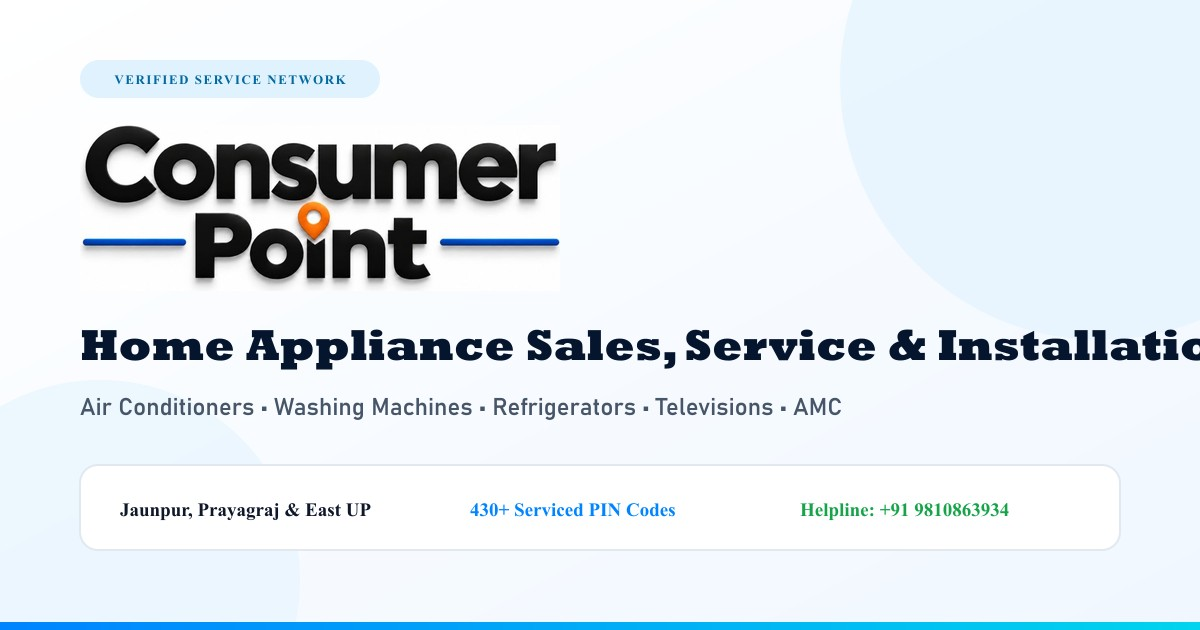
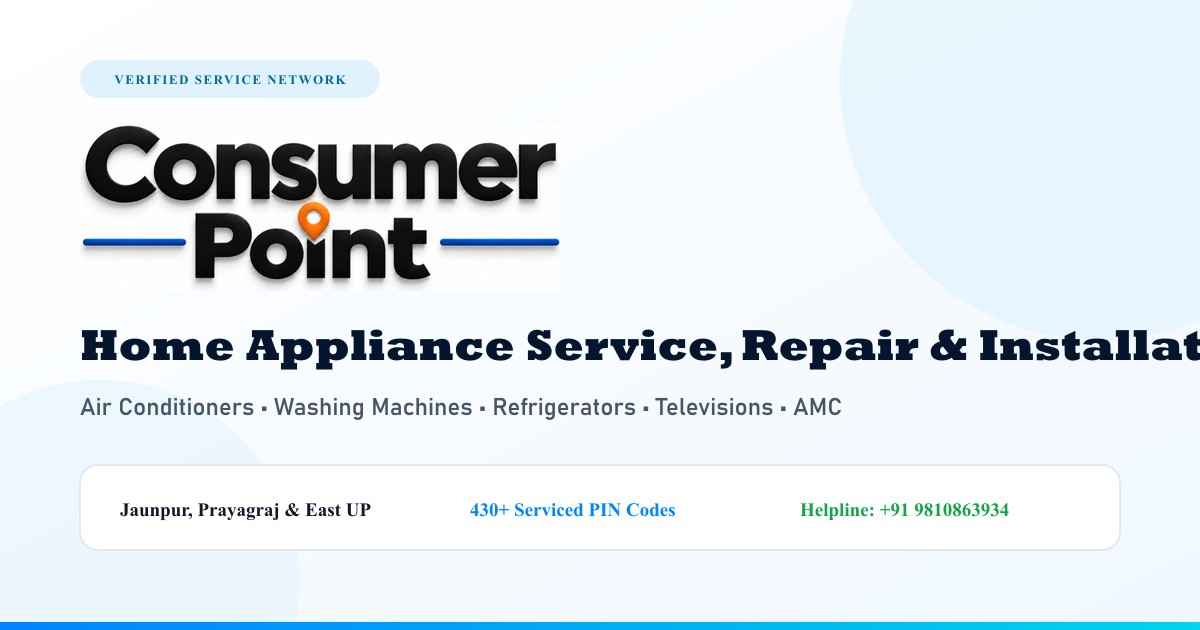
Updated Consumer Point website features

Changed region(s): [[0.4625, 0.5127, 1.0, 0.6032]]

diff --git a/src/pages/Home.tsx b/src/pages/Home.tsx
@@ -52,8 +52,8 @@ export default function Home() {
   return (
     <>
       <SEO
-        title="Home Appliance Sales, Service & Installation"
-        description="A better experience for every home. Explore Consumer Point home appliances, repair enquiries, AC installation, preventive maintenance, and business partnerships."
+        title="Home Appliance Service, Repair & Installation"
+        description="Expert home appliance repair, AC installation, preventive maintenance, and Comprehensive AMC services across Uttar Pradesh."
       />
       <section className="hero">
         <motion.img
@@ -88,9 +88,9 @@ export default function Home() {
               for <span>every home.</span>
             </h1>
             <p className="hero-description">
-              Your trusted destination for home-appliance sales,
+              Your trusted partner for home appliance repairs,
               <br className="desktop-break" /> professional installation, and
-              dependable service support.
+              dependable preventive maintenance.
             </p>
             <div className="button-group">
               <ButtonLink to="/services">Explore Our Services</ButtonLink>
@@ -147,22 +147,21 @@ export default function Home() {
         <div className="container">
           <Reveal className="section-heading-row">
             <SectionHeading
-              eyebrow="GOOD CHOICES. BETTER EVERYDAYS."
+              eyebrow="APPLIANCE CARE &amp; SERVICE EXCELLENCE"
               title={
                 <>
-                  Find the right appliances
-                  <br className="desktop-break" /> for your home.
+                  Appliances we service,
+                  <br className="desktop-break" /> repair &amp; maintain.
                 </>
               }
             >
-              Every room. Every routine. Something that fits just right.
+              From precision AC cooling to washing machines and refrigerators — complete upkeep for every essential home appliance.
             </SectionHeading>
-            <ArrowLink to="/products">Explore all products</ArrowLink>
+            <ArrowLink to="/services">Explore all services</ArrowLink>
           </Reveal>
           <ProductGrid />
           <p className="section-footnote">
-            Product images are illustrative. Models, specifications, pricing,
-            and availability are confirmed on enquiry.
+            Appliance images are illustrative. Service availability, spare parts, and technician scheduling are confirmed on enquiry.
           </p>
         </div>
       </section>

diff --git a/src/pages/About.tsx b/src/pages/About.tsx
@@ -48,7 +48,7 @@ export default function About() {
     <>
       <SEO
         title="About Us"
-        description="Meet Consumer Point, a customer-focused home-appliance business bringing sales, installation enquiries, service support, and maintenance together."
+        description="Meet Consumer Point, a customer-focused home appliance service network bringing professional repair, installation enquiries, and preventive maintenance together."
       />
       <PageHero
         eyebrow="About Us"
@@ -60,9 +60,9 @@ export default function About() {
           </>
         }
       >
-        Consumer Point brings together home-appliance sales, installation
-        coordination, and service support with a simple focus: making your
-        experience easier.
+        Consumer Point brings together home appliance repair, installation
+        coordination, and preventive maintenance support with a simple focus: making your
+        appliance ownership seamless.
       </PageHero>
       <section className="section">
         <div className="container editorial-grid">
@@ -81,10 +81,10 @@ export default function About() {
               turn when something needs attention all matter.
             </p>
             <p>
-              Consumer Point is a customer-focused home-appliance business
-              connecting those needs. We welcome product, installation, repair,
+              Consumer Point is a customer-focused home appliance service network
+              connecting those needs. We welcome installation, repair,
               and maintenance enquiries, as well as conversations with brands
-              and businesses about after-sales coordination.
+              and businesses about after-sales service coordination.
             </p>
             <p>
               We believe in listening first, communicating clearly, and agreeing
@@ -133,7 +133,7 @@ export default function About() {
                 <br />
                 For your home, and beyond.
               </h2>
-              <p>Become a trusted name in home-appliance sales and services.</p>
+              <p>Become the most trusted name in home appliance repair, maintenance, and service delivery.</p>
             </Reveal>
           </div>
           <Reveal>

diff --git a/index.html b/index.html
@@ -6,7 +6,7 @@
     <meta name="theme-color" content="#06152e" />
 
     <!-- Primary SEO Metadata -->
-    <title>Consumer Point | Home Appliance Sales, Service, Repair &amp; Installation</title>
+    <title>Consumer Point | Home Appliance Service, Repair &amp; Installation</title>
     <meta
       name="description"
       content="Expert home appliance repair, installation and AMC services across Jaunpur, Prayagraj, Kaushambi and surrounding areas. AC, washing machine, refrigerator, TV &amp; RO service."
@@ -24,7 +24,7 @@
     <meta property="og:locale" content="en_IN" />
     <meta
       property="og:title"
-      content="Consumer Point | Home Appliance Sales, Service, Repair &amp; Installation"
+      content="Consumer Point | Home Appliance Service, Repair &amp; Installation"
     />
     <meta
       property="og:description"
@@ -33,13 +33,13 @@
     <meta property="og:image" content="https://consumerpoint.co.in/images/og-image.jpg" />
     <meta property="og:image:width" content="1200" />
     <meta property="og:image:height" content="630" />
-    <meta property="og:image:alt" content="Consumer Point Home Appliance Sales, Service and Installation" />
+    <meta property="og:image:alt" content="Consumer Point Home Appliance Service, Repair and Installation" />
 
     <!-- Twitter / X Card -->
     <meta name="twitter:card" content="summary_large_image" />
     <meta
       name="twitter:title"
-      content="Consumer Point | Home Appliance Sales, Service, Repair &amp; Installation"
+      content="Consumer Point | Home Appliance Service, Repair &amp; Installation"
     />
     <meta
       name="twitter:description"
@@ -58,7 +58,7 @@
       "@type": "HomeAndConstructionBusiness",
       "@id": "https://consumerpoint.co.in/#organization",
       "name": "Consumer Point",
-      "legalName": "Consumer Point Home Appliance Sales, Service & Installation",
+      "legalName": "Consumer Point Home Appliance Service, Repair & Installation",
       "url": "https://consumerpoint.co.in",
       "logo": "https://consumerpoint.co.in/images/logo-consumer-point.png",
       "image": "https://consumerpoint.co.in/images/og-image.jpg",

diff --git a/src/pages/Products.tsx b/src/pages/Products.tsx
@@ -17,13 +17,11 @@ export default function Products() {
   return (
     <>
       <SEO
-        title="Home Appliances & Product Enquiries"
-        description="Explore air conditioners, refrigerators, washing machines, televisions, kitchen appliances, water purifiers, and electrical appliance enquiries at Consumer Point."
+        title="Appliances We Service, Repair & Maintain"
+        description="Comprehensive doorstep service, repair, and installation for all major home appliance categories: air conditioners, refrigerators, washing machines, and televisions."
       />
-      <PageHero eyebrow="Products" title="Made for your home. Chosen for you.">
-        Explore our appliance categories and tell us what you have in mind.
-        We'll help you discuss the right requirements, features, and fit for
-        your everyday life.
+      <PageHero eyebrow="Supported Appliances" title="Appliances We Service, Repair & Maintain">
+        From precision air conditioner servicing to front-load washing machines and double-door refrigerators — our verified technicians deliver expert repair, genuine parts, and scheduled maintenance.
       </PageHero>
       <section className="section products-section">
         <div className="container">
@@ -95,10 +93,9 @@ export default function Products() {
           <div className="notice catalog-notice">
             <Info size={19} />
             <p>
-              These are enquiry categories, not a live product catalogue. Images
-              are illustrative. Model, brand, specifications, pricing, stock,
-              and delivery details must be confirmed by the team. No authorised
-              dealership relationship is implied.
+              These are supported appliance service and maintenance categories. Images
+              are illustrative. Service availability, spare parts, and technician scheduling
+              must be confirmed by the team. No authorised dealership or retail sales relationship is implied.
             </p>
           </div>
         </div>

diff --git a/src/components/Products.tsx b/src/components/Products.tsx
@@ -14,16 +14,16 @@ export function ProductGrid({
         <Reveal key={item.id} delay={(index % 4) * 0.04}>
           <Link
             className="product-card"
-            to={`/contact?type=Product%20Enquiry&category=${encodeURIComponent(item.name)}#enquiry-form`}
-            aria-label={`Enquire about ${item.name}`}
+            to={`/contact?type=Service%20Request&category=${encodeURIComponent(item.name)}#enquiry-form`}
+            aria-label={`Book service or repair for ${item.name}`}
           >
             <div className="product-image">
               <img
                 src={`/images/${item.image}.webp`}
                 alt={
                   item.name === "Televisions"
-                    ? "Modern flat-screen television displaying an ocean landscape"
-                    : `${item.name} - illustrative appliance photography`
+                    ? "Modern flat-screen television wall mounting and display calibration"
+                    : `${item.name} repair, installation and maintenance service - Consumer Point`
                 }
                 width="500"
                 height="500"
@@ -37,7 +37,7 @@ export function ProductGrid({
               <h3>{item.name}</h3>
               <p>{item.short}</p>
               <span className="product-enquire">
-                Make an enquiry
+                Book Service / Repair
                 <ArrowUpRight size={14} />
               </span>
             </div>

diff --git a/src/pages/Feedback.tsx b/src/pages/Feedback.tsx
@@ -243,14 +243,14 @@ export default function FeedbackPage() {
     <>
       <SEO
         title="Customer Feedback & Service Reviews"
-        description="Read verified customer reviews and share your experience with Consumer Point home appliance sales, installation, repairs, and AMC maintenance."
+        description="Read verified customer reviews and share your experience with Consumer Point home appliance installation, repairs, and AMC maintenance."
       />
 
       <PageHero
         eyebrow="Customer Reviews & Ratings"
         title="Real experiences from homes we serve."
       >
-        Read genuine feedback from verified appliance sales and service customers,
+        Read genuine feedback from verified appliance service and maintenance customers,
         or share your own thoughts to help us keep improving.
       </PageHero>
 

diff --git a/src/data.ts b/src/data.ts
@@ -22,12 +22,12 @@ import {
 export const navigation = [
   { label: "Home", path: "/" },
   { label: "About Us", path: "/about" },
-  { label: "Products", path: "/products" },
   { label: "Services", path: "/services" },
   { label: "AMC Plans", path: "/amc-maintenance" },
-  { label: "Careers", path: "/careers" },
-  { label: "Brand Partnerships", path: "/partnerships" },
+  { label: "Service Locations", path: "/service-locations" },
   { label: "Reviews", path: "/feedback" },
+  { label: "Brand Partnerships", path: "/partnerships" },
+  { label: "Careers", path: "/careers" },
   { label: "Contact Us", path: "/contact" },
 ];
 

diff --git a/src/pages/Contact.tsx b/src/pages/Contact.tsx
@@ -43,7 +43,7 @@ export default function Contact() {
     <>
       <SEO
         title="Contact & Enquiries"
-        description="Contact Consumer Point for appliance sales enquiries, service requests, installation, AMC proposals, and brand partnerships through our secure enquiry form."
+        description="Contact Consumer Point for appliance repair enquiries, service requests, installation, AMC proposals, and brand partnerships through our secure enquiry form."
       />
       <PageHero
         eyebrow="Contact Us"

diff --git a/src/components/UI.tsx b/src/components/UI.tsx
@@ -330,7 +330,7 @@ export function SEO({
     setMeta("property", "og:image", ogImage);
     setMeta("property", "og:image:width", "1200");
     setMeta("property", "og:image:height", "630");
-    setMeta("property", "og:image:alt", "Consumer Point Home Appliance Sales, Service and Installation");
+    setMeta("property", "og:image:alt", "Consumer Point Home Appliance Service, Repair and Installation");
 
     // 5. Twitter / X Cards
     setMeta("name", "twitter:card", "summary_large_image");

diff --git a/src/components/Brand.tsx b/src/components/Brand.tsx
@@ -30,7 +30,7 @@ export function Brand({ light = false }: { light?: boolean }) {
       <div className={`brand-logo-container ${light ? "brand-logo-dark-bg" : ""}`}>
         <img
           src="/images/logo-consumer-point.webp"
-          alt="Consumer Point - Sales, Service & Installation"
+          alt="Consumer Point - Appliance Service, Repair & Installation"
           className="brand-logo-image"
           width="138"
           height="48"
